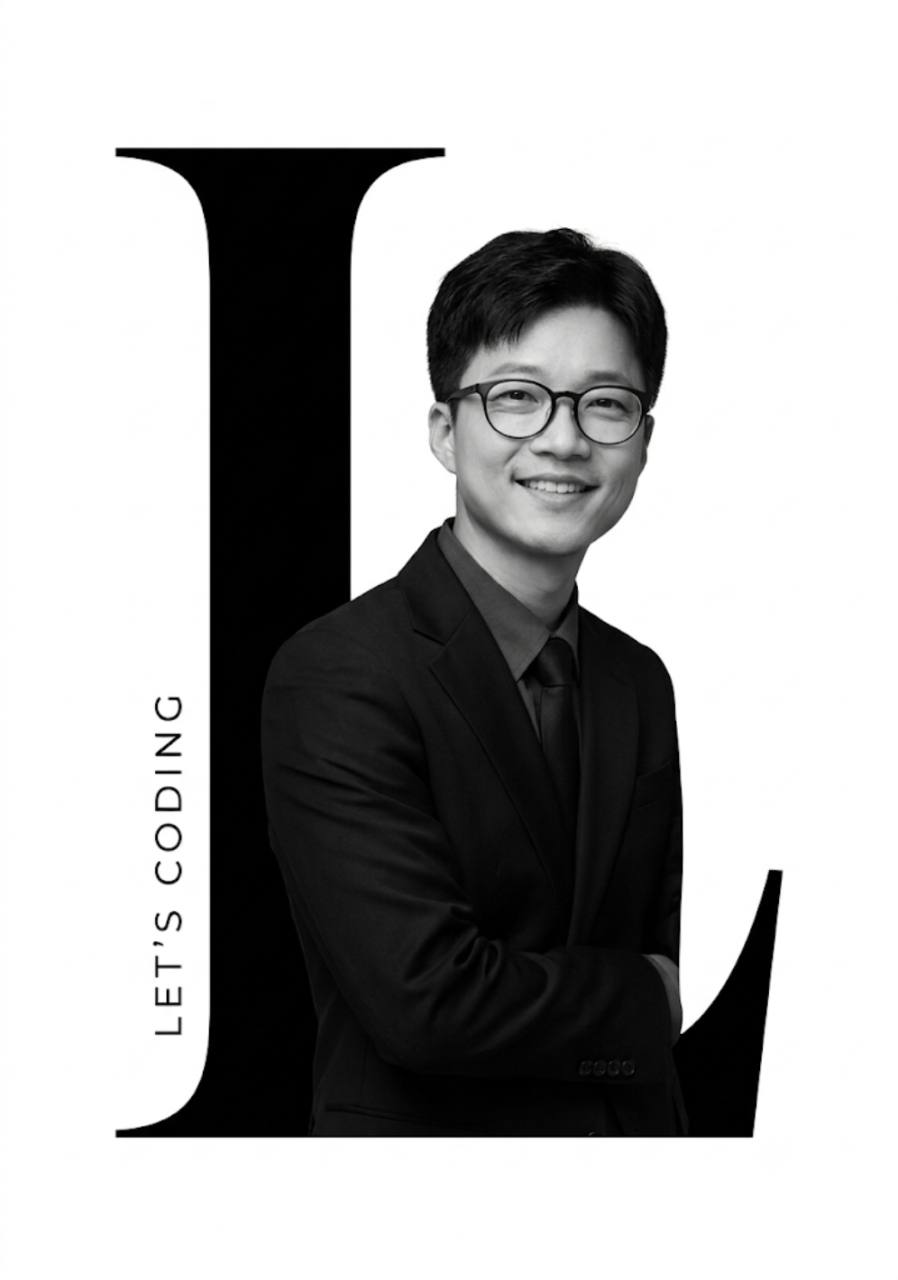
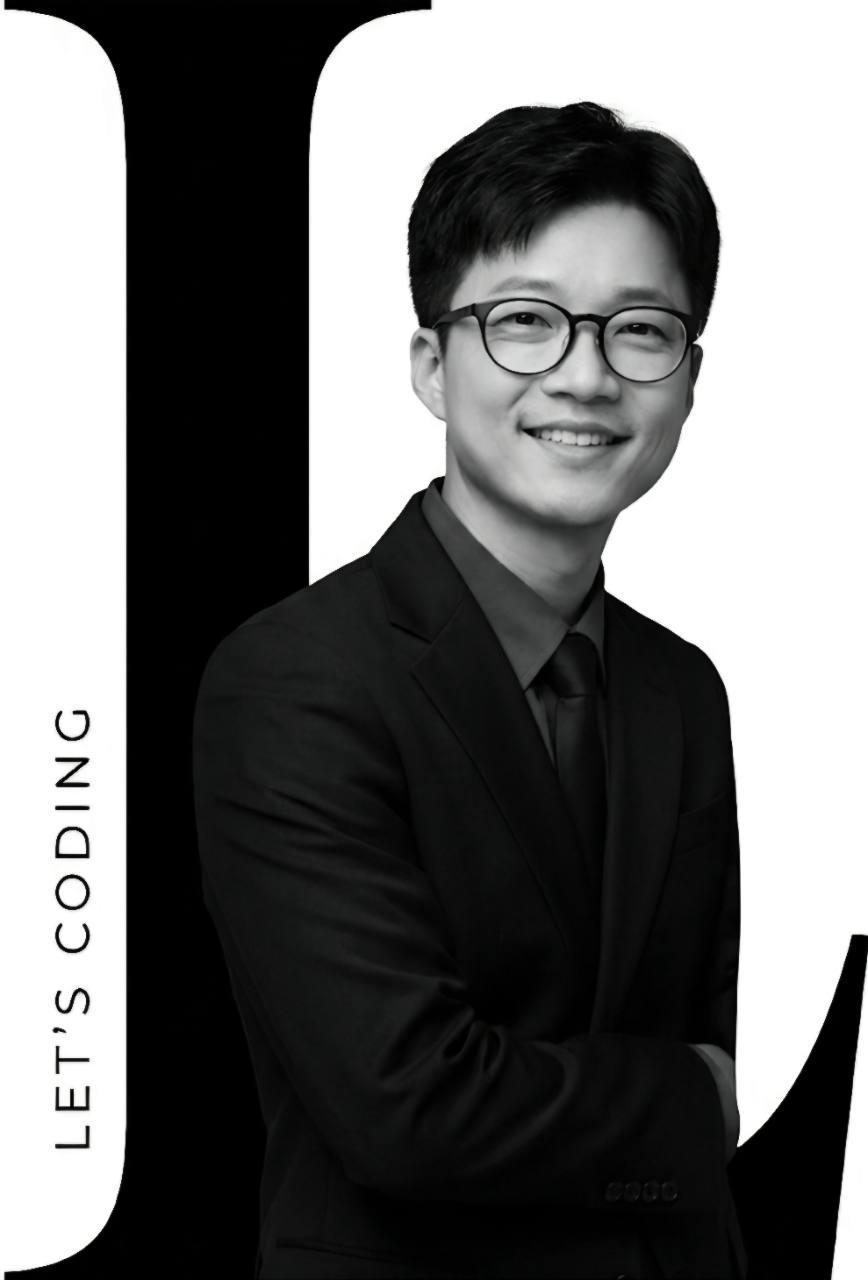
fix: 원장 프로필 사진을 여백 제거본으로 교체

diff --git a/src/app/about/page.tsx b/src/app/about/page.tsx
@@ -102,7 +102,7 @@ export default function Page() {
           </div>
           <figure className="w-44 md:w-60">
             <div className="relative aspect-[4/5] overflow-hidden rounded-[28px] bg-white/5">
-              <Image src="/about/leehg-profile.jpg" alt="이형구 원장 프로필 사진" fill priority sizes="(min-width: 768px) 240px, 176px" className="object-cover" />
+              <Image src="/about/leehg-profile-cropped.jpg" alt="이형구 원장 프로필 사진" fill priority sizes="(min-width: 768px) 240px, 176px" className="object-cover" />
             </div>
             <figcaption className="mt-3">
               <span className="block text-lg font-bold">이형구</span>

diff --git a/src/app/blog/page.tsx b/src/app/blog/page.tsx
@@ -21,7 +21,7 @@ function PostCard({ post }: { post: BlogPost }) {
           alt=""
           loading="lazy"
           className="aspect-[16/9] w-full object-cover"
-          style={post.slug === "about-letscoding-company" ? { objectPosition: "center 25%" } : undefined}
+          style={post.slug === "about-letscoding-company" ? { objectPosition: "center 10%" } : undefined}
         />
       )}
       <div className="flex flex-1 flex-col p-5">
